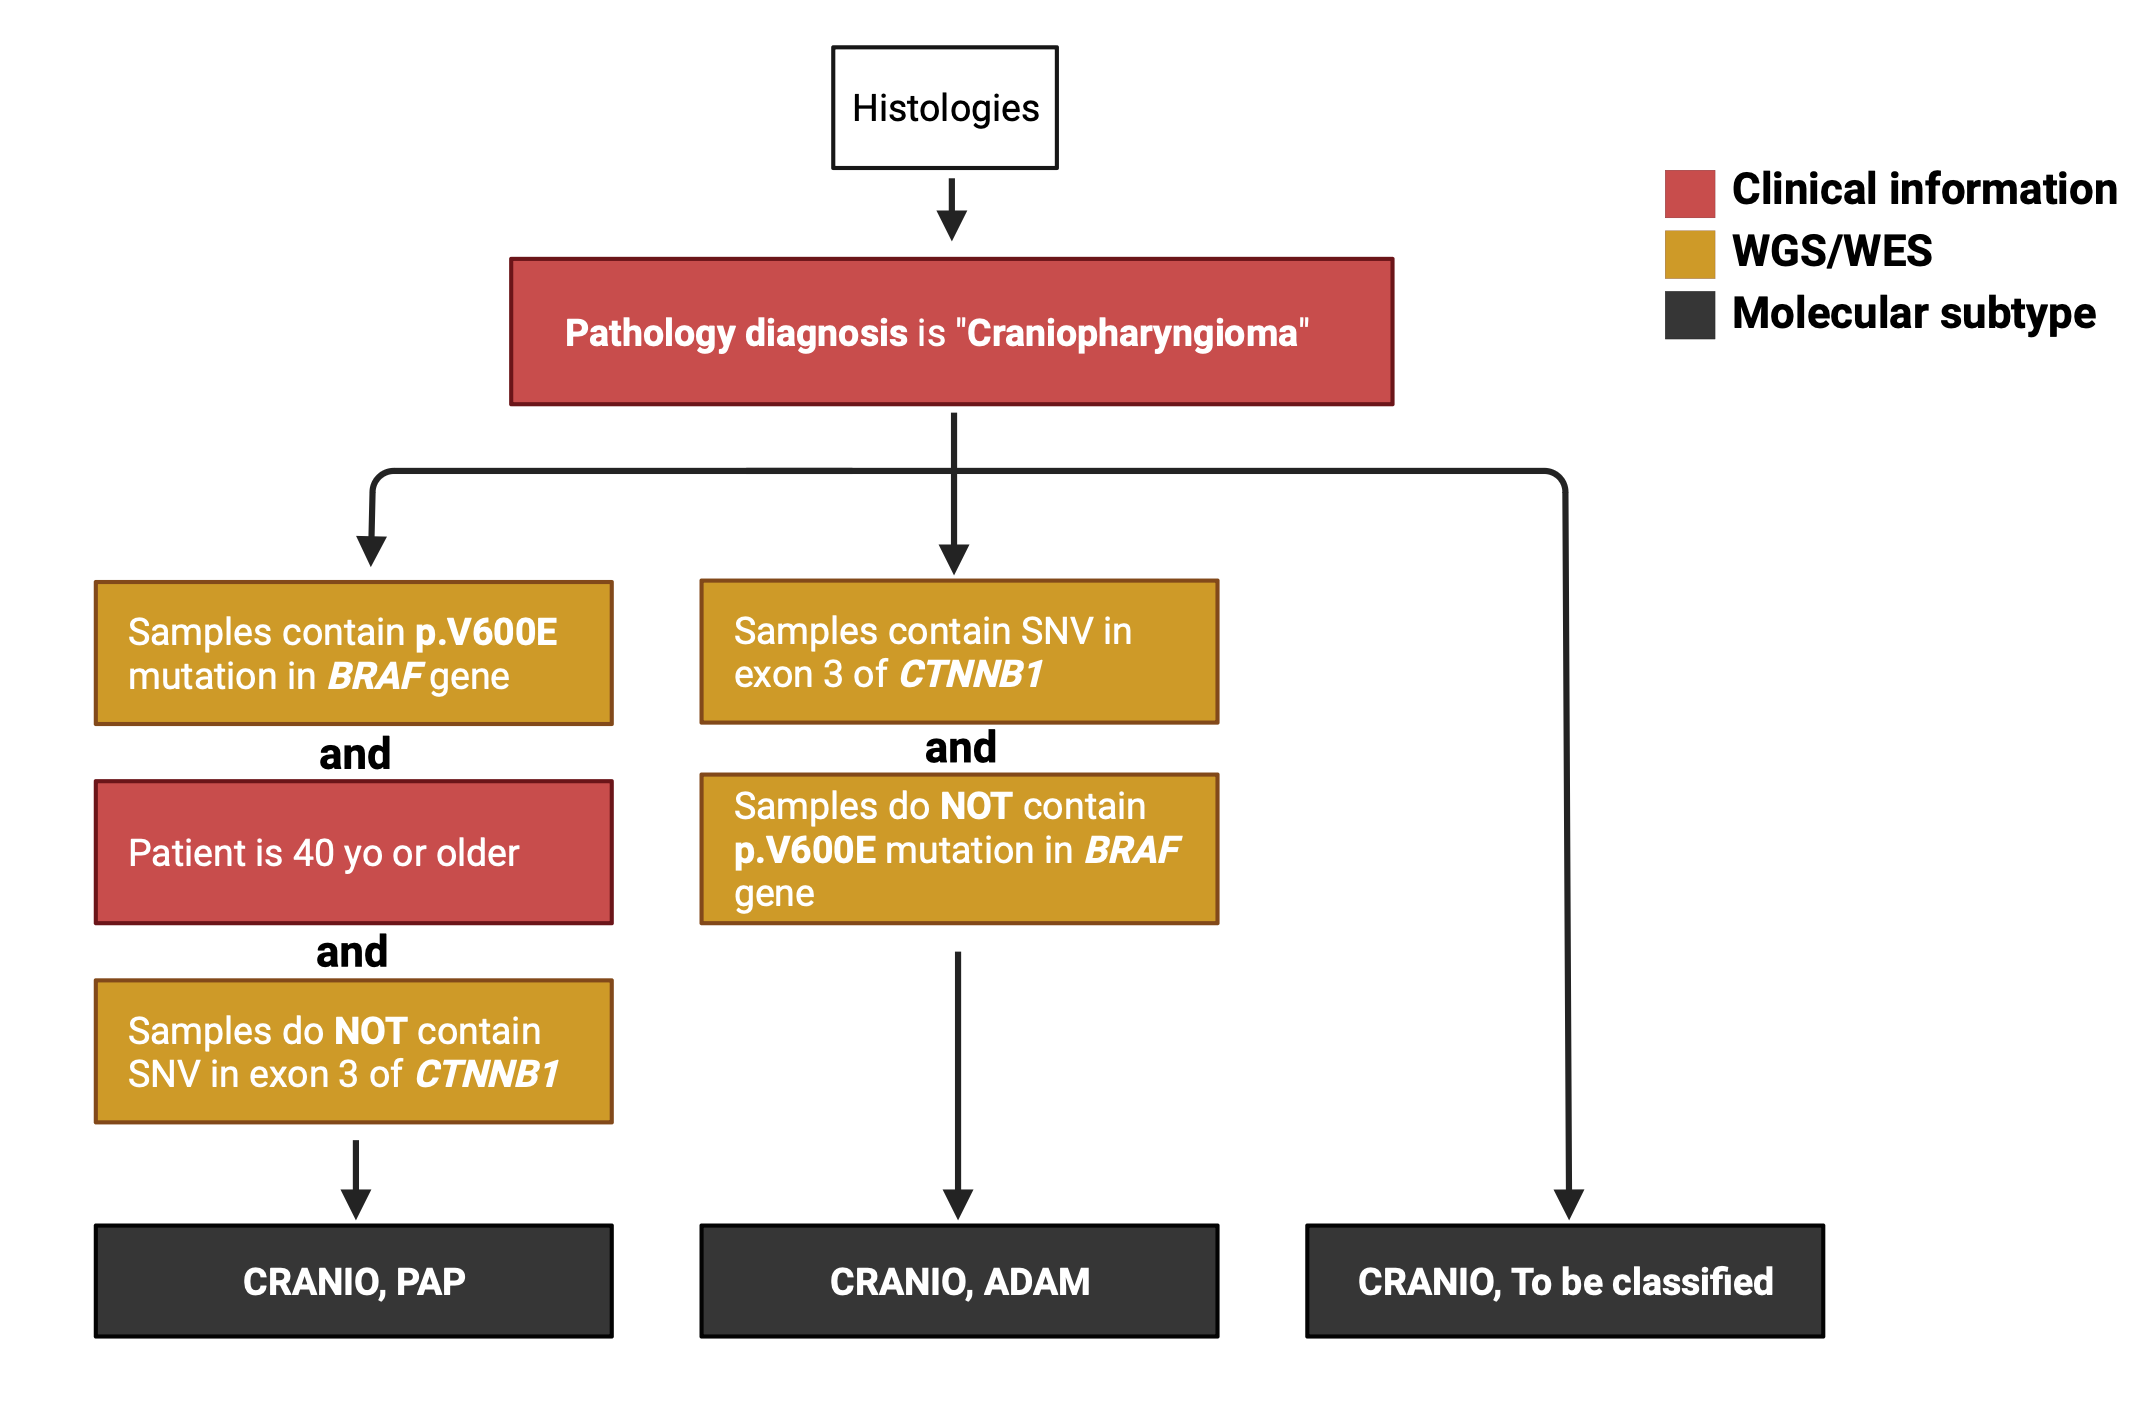
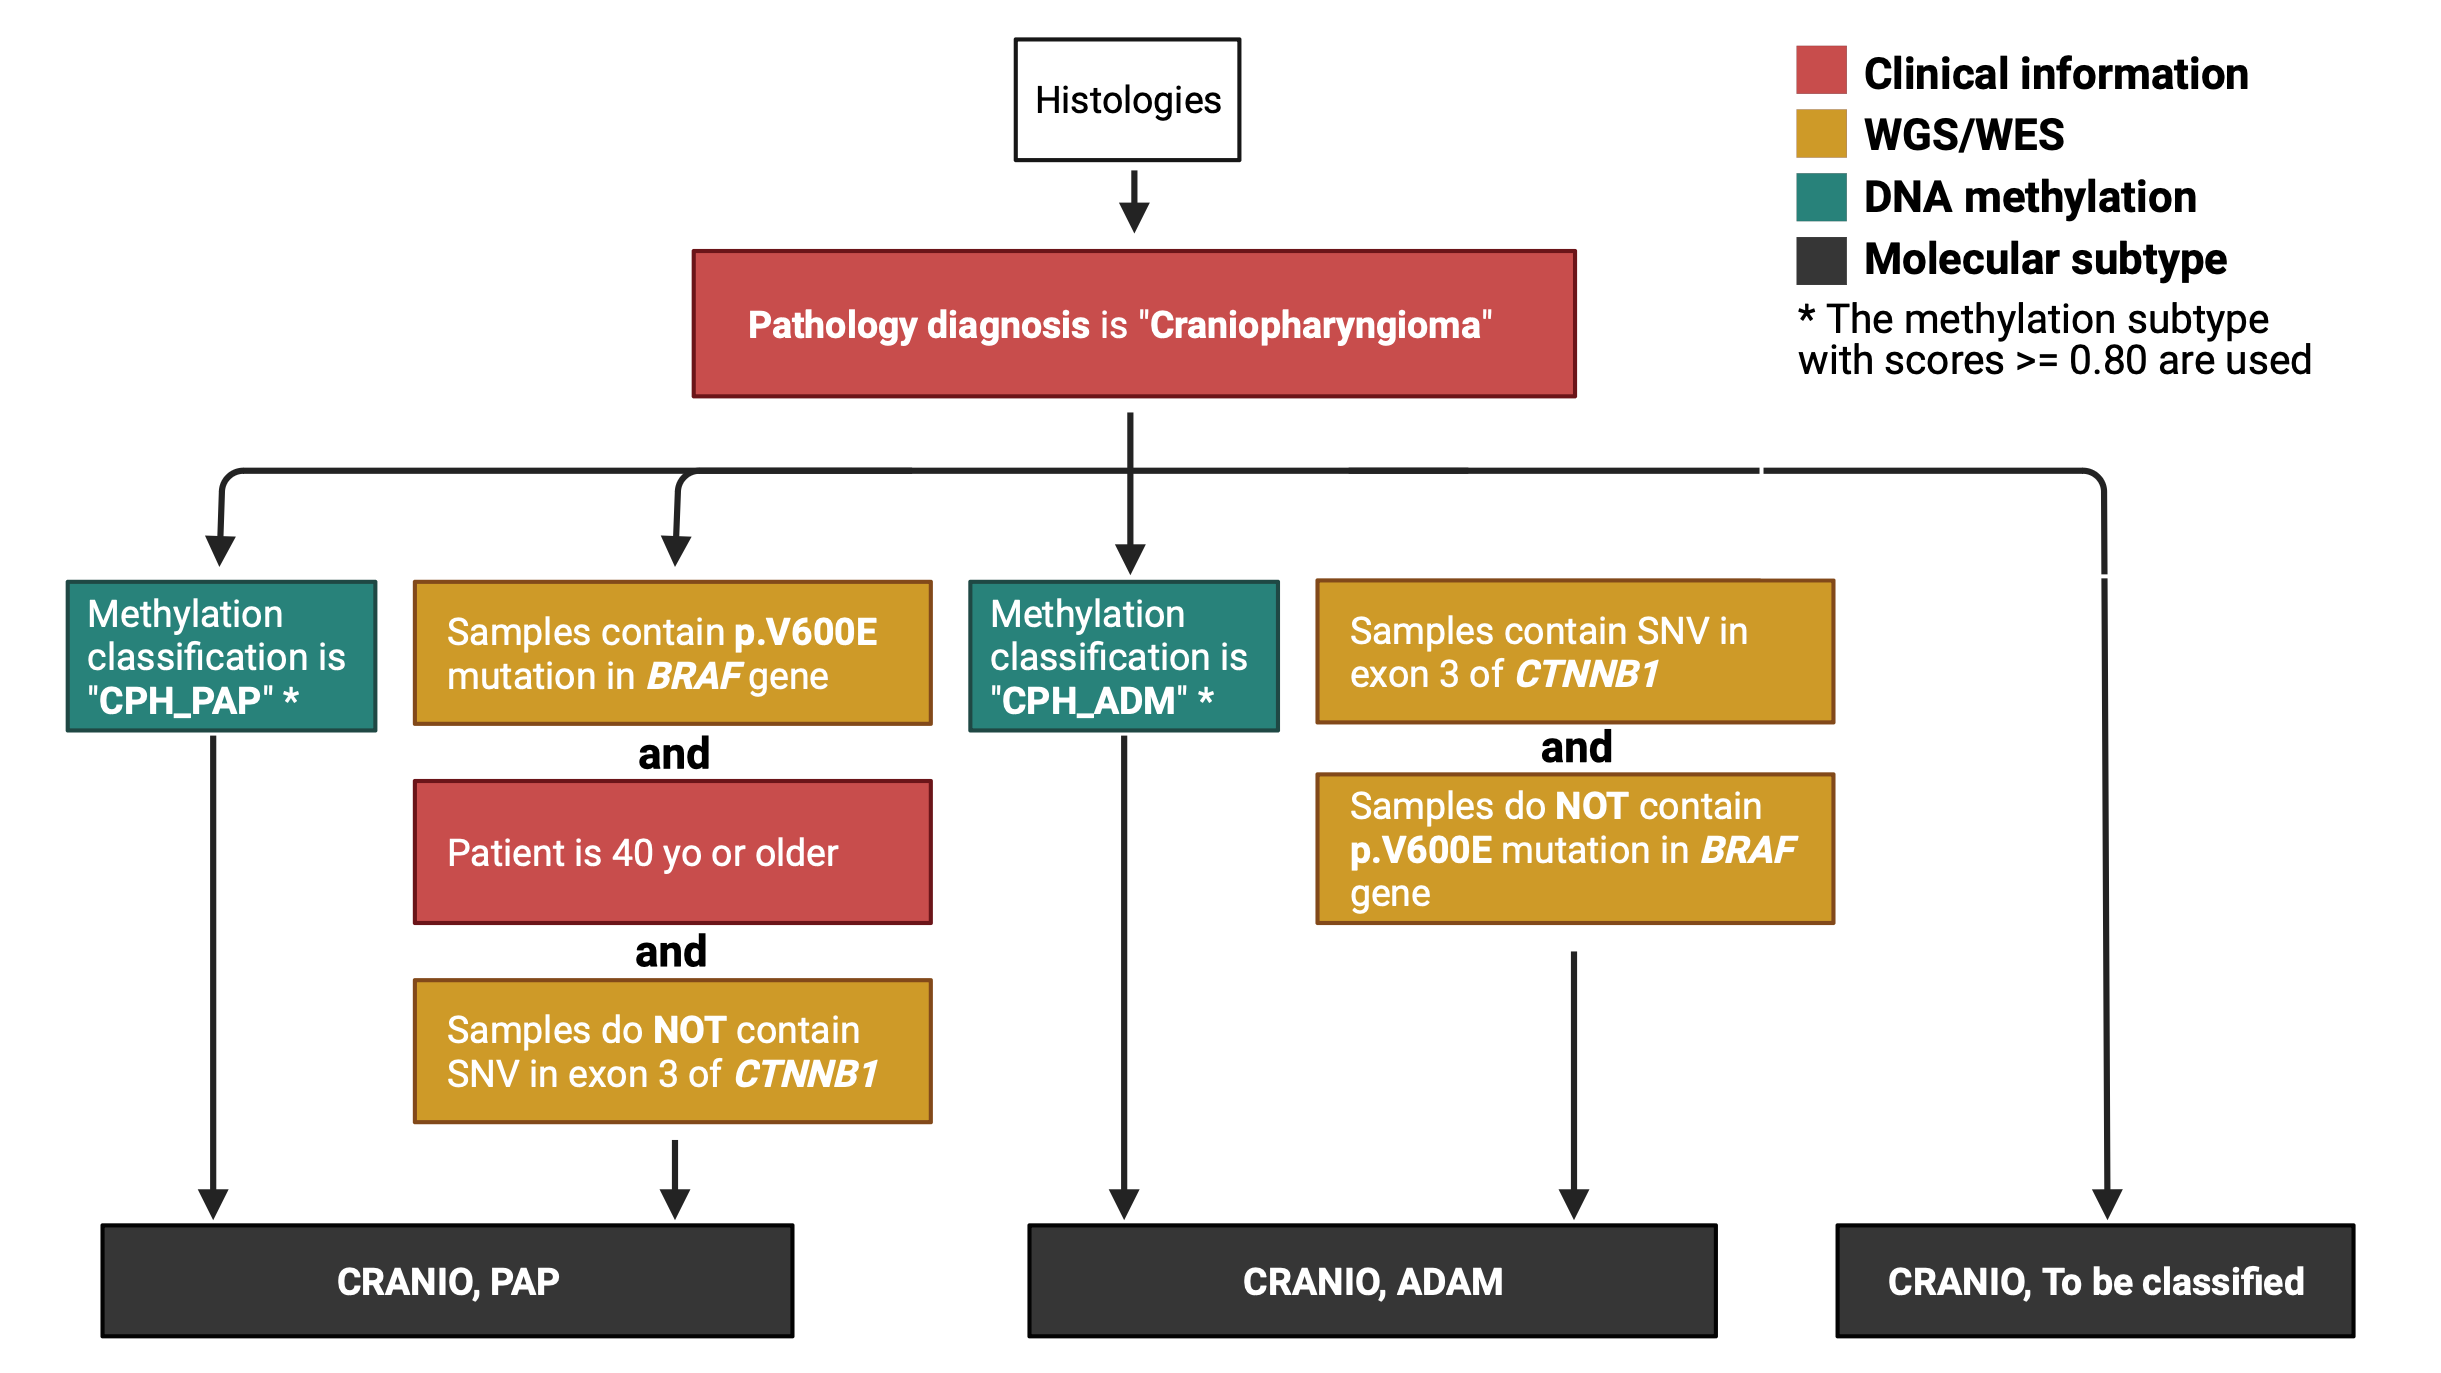
add methylation in workflow and readme

diff --git a/analyses/molecular-subtyping-CRANIO/README.md b/analyses/molecular-subtyping-CRANIO/README.md
@@ -2,7 +2,7 @@
 
 **Module authors:** Daniel Miller ([@dmiller15](https://github.com/dmiller15)) and Jo Lynne Rokita ([@jharenza](https://github.com/jharenza))
 
-Craniopharyngiomas can be subtyped into adamantinomatous or papillary based on whether they harbor specific gene mutations.
+Craniopharyngiomas can be subtyped into adamantinomatous or papillary based on either the specific gene mutations they harboring or the high confident methylation classification.
 Adamantinomatous craniopharyngiomas harbor mutations within exon 3 of the _CTNNB1_ gene and papillary craniopharyngiomas harbor BRAF V600E mutations.
 Adamantinomatous craniopharyngiomas occur mostly in childhood or young adolescence (0-39 years), but can be seen in adults, while papillary craniopharyngiomas occur exclusively in adults.
 This analysis will subtype craniopharyngiomas.
